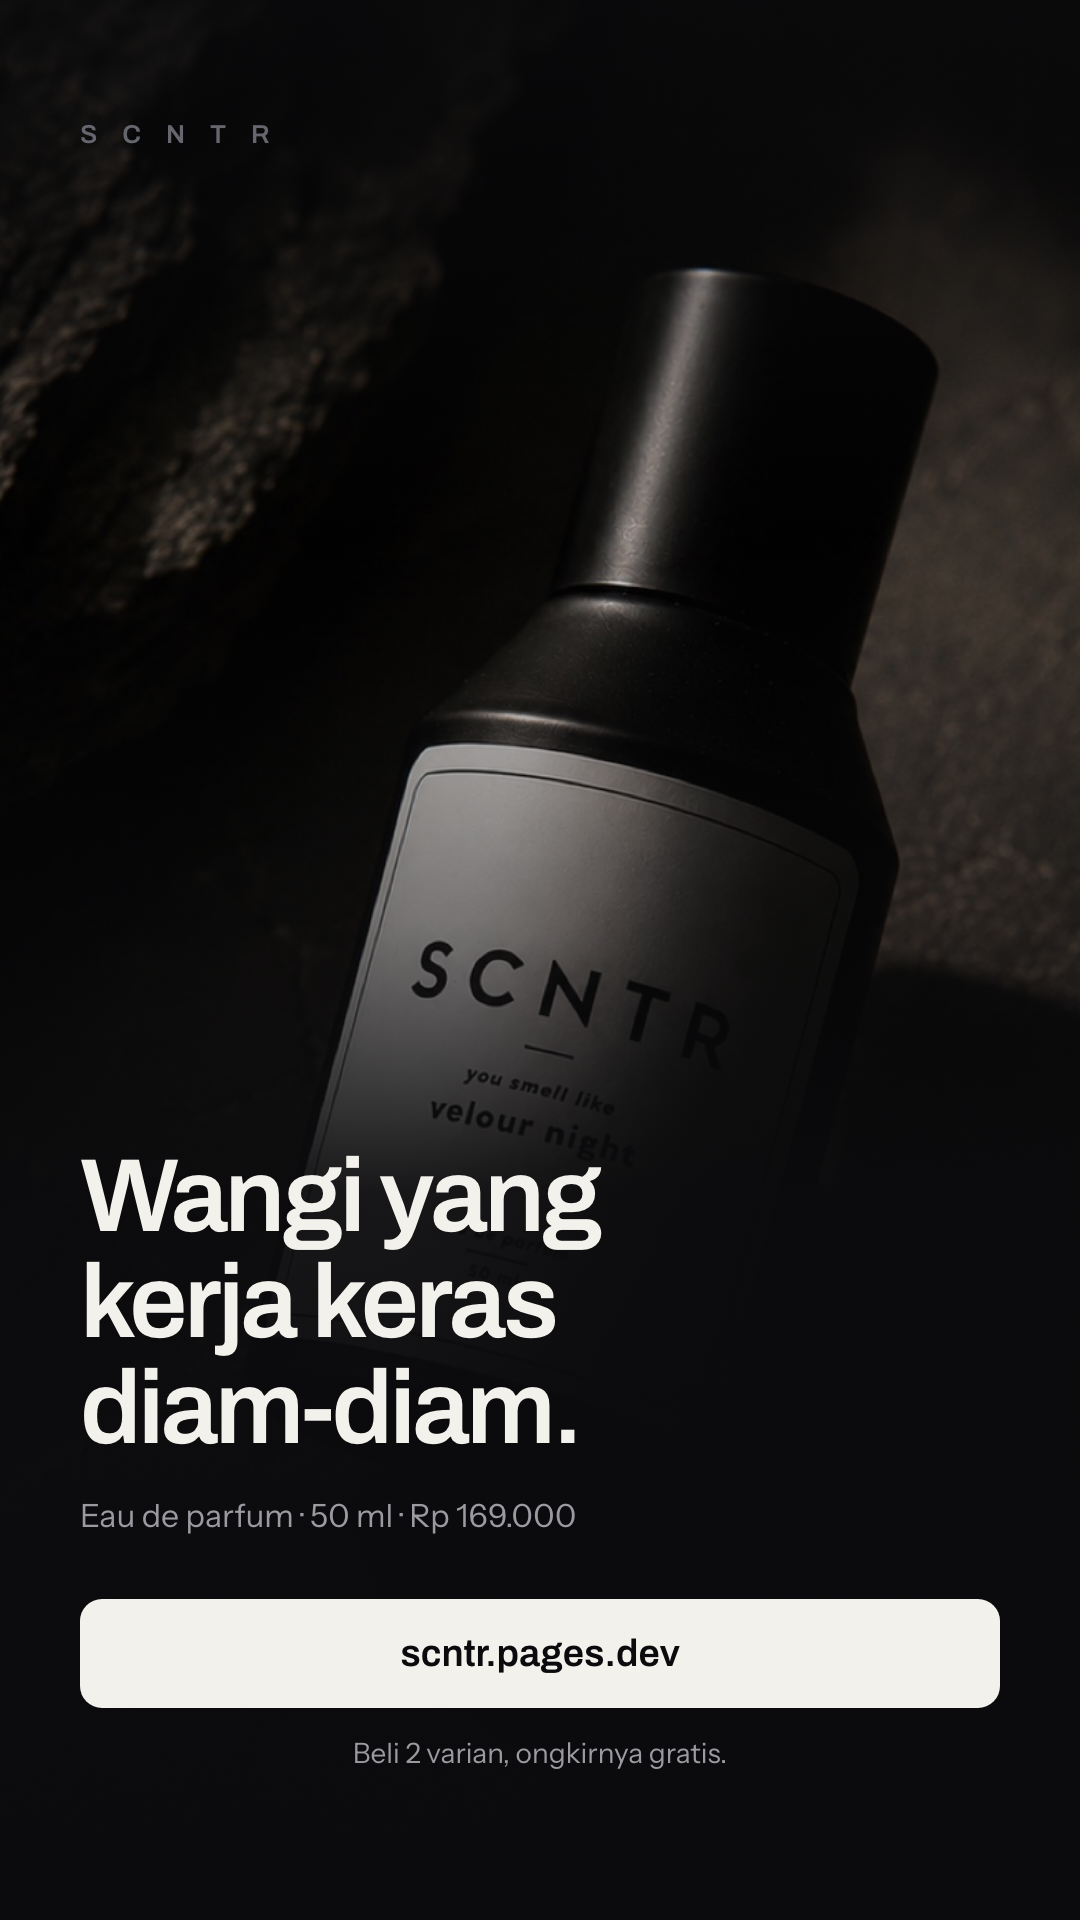
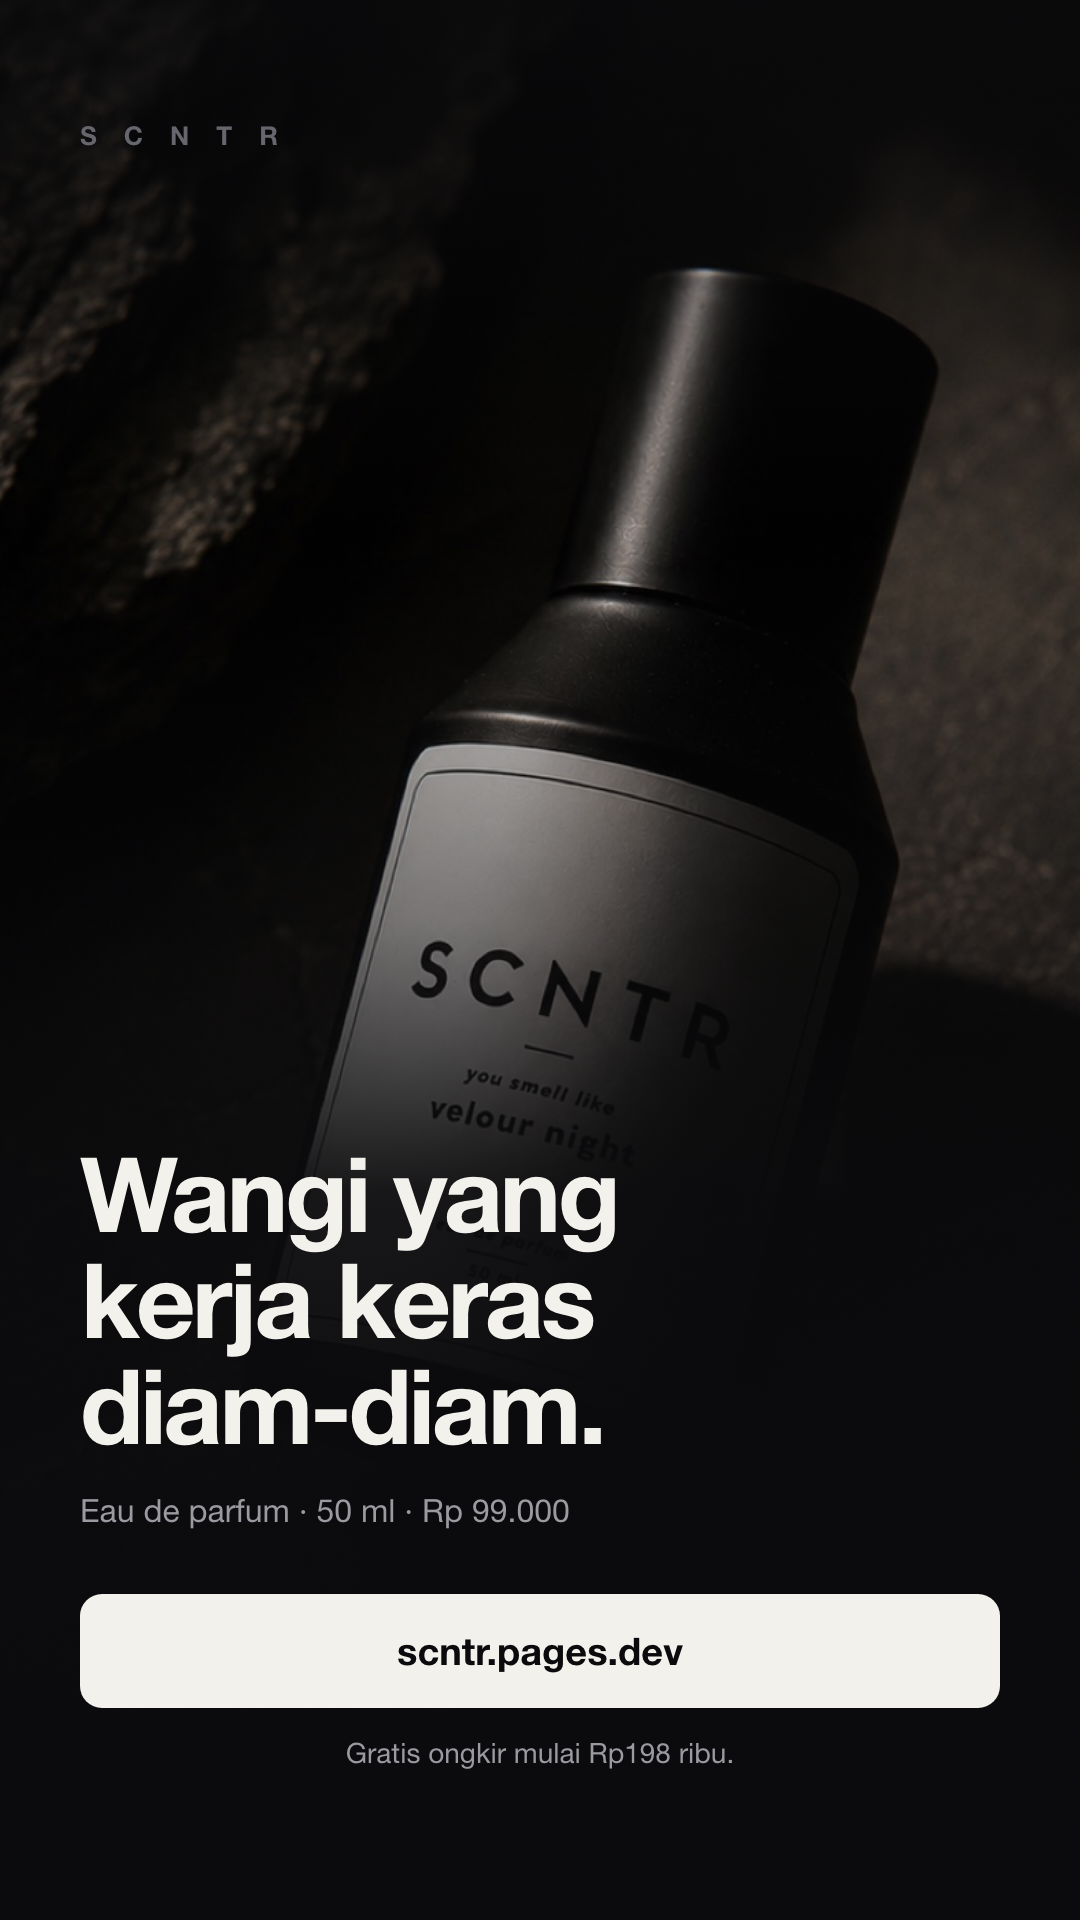
Rating jujur (3 ulasan Shopee) + gratis ongkir 198rb di web, app, dana, campaign

diff --git a/index.html b/index.html
@@ -4,7 +4,7 @@
 <meta charset="utf-8">
 <meta name="viewport" content="width=device-width, initial-scale=1">
 <title>SCNTR — Parfum Pria Lokal, Eau de Parfum 50 ml</title>
-<meta name="description" content="SCNTR — parfum pria lokal, eau de parfum 50 ml, Rp 99.000. Empat varian: Fresh, Clean, Bold, dan Velour Night. Tahan 8–12 jam, gratis ongkir mulai Rp 200.000, kirim 1–2 hari.">
+<meta name="description" content="SCNTR — parfum pria lokal, eau de parfum 50 ml, Rp 99.000. Empat varian: Fresh, Clean, Bold, dan Velour Night. Tahan 8–12 jam, gratis ongkir mulai Rp 198.000, kirim 1–2 hari.">
 <link rel="canonical" href="https://scntr.pages.dev/">
 <meta name="robots" content="index, follow, max-image-preview:large">
 <meta name="author" content="SCNTR">
@@ -15,7 +15,7 @@
 <meta property="og:locale" content="id_ID">
 <meta property="og:url" content="https://scntr.pages.dev/">
 <meta property="og:title" content="SCNTR — Parfum Pria 50 ml, Rp 99.000">
-<meta property="og:description" content="Wangi yang kerja keras diam-diam. Empat varian eau de parfum untuk pagi, kantor, malam, dan sehari-hari. Gratis ongkir mulai Rp 200.000.">
+<meta property="og:description" content="Wangi yang kerja keras diam-diam. Empat varian eau de parfum untuk pagi, kantor, malam, dan sehari-hari. Gratis ongkir mulai Rp 198.000.">
 <meta property="og:image" content="https://scntr.pages.dev/assets/velour-night.jpg">
 <meta property="og:image:width" content="1254">
 <meta property="og:image:height" content="1254">
@@ -515,7 +515,7 @@ footer nav a:hover{color:var(--bone)}
 </header>
 
 <div class="strip">
-  <div><svg viewBox="0 0 24 24" fill="none" stroke="currentColor" stroke-width="1.6" stroke-linejoin="round"><path d="M2.5 7h11v10h-11z"/><path d="M13.5 10.5h4l3 3.2V17h-7z"/><circle cx="6.5" cy="17.5" r="1.8"/><circle cx="17" cy="17.5" r="1.8"/></svg><span><b>Gratis Ongkir</b><span>Min. belanja Rp 200.000</span></span></div>
+  <div><svg viewBox="0 0 24 24" fill="none" stroke="currentColor" stroke-width="1.6" stroke-linejoin="round"><path d="M2.5 7h11v10h-11z"/><path d="M13.5 10.5h4l3 3.2V17h-7z"/><circle cx="6.5" cy="17.5" r="1.8"/><circle cx="17" cy="17.5" r="1.8"/></svg><span><b>Gratis Ongkir</b><span>Min. belanja Rp 198.000</span></span></div>
   <div><svg viewBox="0 0 24 24" fill="none" stroke="currentColor" stroke-width="1.6" stroke-linejoin="round"><path d="M12 3 19 5.6v5.2c0 4-2.9 7.5-7 9.2-4.1-1.7-7-5.2-7-9.2V5.6L12 3Z"/><path d="m9 12 2.1 2.1L15.2 10"/></svg><span><b>100% Original</b><span>Garansi produk asli</span></span></div>
   <div><svg viewBox="0 0 24 24" fill="none" stroke="currentColor" stroke-width="1.6" stroke-linecap="round" stroke-linejoin="round"><path d="M2.5 8.5h9v9h-9z"/><path d="M11.5 11.5h4.4l3.6 3.4v2.6h-8z"/><circle cx="6" cy="18" r="1.7"/><circle cx="16" cy="18" r="1.7"/><path d="M1 6h5M2 11h3"/></svg><span><b>Pengiriman Cepat</b><span>Sampai dalam 1–2 hari</span></span></div>
 </div>
@@ -542,7 +542,7 @@ footer nav a:hover{color:var(--bone)}
       <span class="price" id="spotPrice">Rp 99.000</span>
       <span class="rating">
         <svg viewBox="0 0 24 24" fill="currentColor"><path d="m12 3.6 2.6 5.3 5.8.8-4.2 4.1 1 5.8-5.2-2.7-5.2 2.7 1-5.8-4.2-4.1 5.8-.8L12 3.6Z"/></svg>
-        <b>4.8</b> (126 ulasan)
+        <b>★</b> (3 ulasan di Shopee)
       </span>
     </div>
     <div class="picker" id="picker"></div>
@@ -715,7 +715,7 @@ footer nav a:hover{color:var(--bone)}
     </details>
     <details>
       <summary>Ongkirnya berapa, dan berapa lama sampai?</summary>
-      <p>Ongkir Rp 15.000 ke seluruh Indonesia, dan gratis untuk pembelian mulai Rp 200.000 — misalnya tiga botol 50 ml, atau satu 100 ml ditambah satu 50 ml. Pengiriman 1–2 hari untuk kota besar, lebih lama untuk daerah yang jauh.</p>
+      <p>Ongkir Rp 15.000 ke seluruh Indonesia, dan gratis untuk pembelian mulai Rp 198.000 — misalnya dua botol 50 ml sudah gratis ongkir. Pengiriman 1–2 hari untuk kota besar, lebih lama untuk daerah yang jauh.</p>
     </details>
     <details>
       <summary>Cara pesannya gimana?</summary>
@@ -827,7 +827,7 @@ footer nav a:hover{color:var(--bone)}
         { "@type": "Question", "name": "Bedanya empat varian SCNTR itu apa?",
           "acceptedAnswer": { "@type": "Answer", "text": "Fresh citrus untuk pagi, Clean wangi sabun untuk kantor, Bold spicy woody untuk malam, dan Velour Night yang lembut untuk sehari-hari." } },
         { "@type": "Question", "name": "Ongkirnya berapa dan berapa lama sampai?",
-          "acceptedAnswer": { "@type": "Answer", "text": "Ongkir Rp 15.000 ke seluruh Indonesia dan gratis untuk pembelian mulai Rp 200.000. Pengiriman 1-2 hari untuk kota besar." } },
+          "acceptedAnswer": { "@type": "Answer", "text": "Ongkir Rp 15.000 ke seluruh Indonesia dan gratis untuk pembelian mulai Rp 198.000. Pengiriman 1-2 hari untuk kota besar." } },
         { "@type": "Question", "name": "Cara pesan parfum SCNTR?",
           "acceptedAnswer": { "@type": "Answer", "text": "Pilih varian, tekan Checkout, bayar lewat QRIS dari bank atau e-wallet mana pun, lalu isi nama dan alamat. Pesanan terkirim ke WhatsApp lengkap dengan rinciannya, tanpa perlu daftar akun." } },
         { "@type": "Question", "name": "SCNTR parfum asli atau isi ulang?",
@@ -911,7 +911,7 @@ footer nav a:hover{color:var(--bone)}
 <div class="toast" id="toast"><svg viewBox="0 0 24 24" fill="none" stroke="currentColor" stroke-width="2" stroke-linecap="round" stroke-linejoin="round"><path d="M4 12.5 9.5 18 20 7"/></svg><span id="toastMsg"></span></div>
 
 <script>
-const SHIP = 15000, FREE_MIN = 200000;
+const SHIP = 15000, FREE_MIN = 198000;
 const rupiah = n => "Rp " + n.toLocaleString("id-ID");
 const $ = s => document.querySelector(s);
 const el = (t,c,h) => { const n=document.createElement(t); if(c)n.className=c; if(h!=null)n.innerHTML=h; return n; };

diff --git a/app.html b/app.html
@@ -570,7 +570,7 @@ button:focus-visible,a:focus-visible{outline:2px solid var(--bone);outline-offse
       </div>
 
       <div class="trust">
-        <div><svg viewBox="0 0 24 24" fill="none" stroke="currentColor" stroke-width="1.6" stroke-linejoin="round"><path d="M2.5 7h11v10h-11z"/><path d="M13.5 10.5h4l3 3.2V17h-7z"/><circle cx="6.5" cy="17.5" r="1.8"/><circle cx="17" cy="17.5" r="1.8"/></svg><span><b>Gratis Ongkir</b><span>Min. belanja 200rb</span></span></div>
+        <div><svg viewBox="0 0 24 24" fill="none" stroke="currentColor" stroke-width="1.6" stroke-linejoin="round"><path d="M2.5 7h11v10h-11z"/><path d="M13.5 10.5h4l3 3.2V17h-7z"/><circle cx="6.5" cy="17.5" r="1.8"/><circle cx="17" cy="17.5" r="1.8"/></svg><span><b>Gratis Ongkir</b><span>Min. belanja 198rb</span></span></div>
         <div><svg viewBox="0 0 24 24" fill="none" stroke="currentColor" stroke-width="1.6" stroke-linejoin="round"><path d="M12 3 19 5.6v5.2c0 4-2.9 7.5-7 9.2-4.1-1.7-7-5.2-7-9.2V5.6L12 3Z"/><path d="m9 12 2.1 2.1L15.2 10"/></svg><span><b>100% Original</b><span>Garansi produk asli</span></span></div>
         <div><svg viewBox="0 0 24 24" fill="none" stroke="currentColor" stroke-width="1.6" stroke-linecap="round" stroke-linejoin="round"><path d="M2.5 8.5h9v9h-9z"/><path d="M11.5 11.5h4.4l3.6 3.4v2.6h-8z"/><circle cx="6" cy="18" r="1.7"/><circle cx="16" cy="18" r="1.7"/><path d="M1 6h5M2 11h3"/></svg><span><b>Pengiriman Cepat</b><span>1–2 hari sampai</span></span></div>
       </div>
@@ -608,7 +608,7 @@ button:focus-visible,a:focus-visible{outline:2px solid var(--bone);outline-offse
           <span class="price">Rp 99.000</span>
           <span class="rating">
             <svg viewBox="0 0 24 24" fill="currentColor"><path d="m12 3.6 2.6 5.3 5.8.8-4.2 4.1 1 5.8-5.2-2.7-5.2 2.7 1-5.8-4.2-4.1 5.8-.8L12 3.6Z"/></svg>
-            <b>4.8</b> (126)
+            <b>★</b> (3 di Shopee)
           </span>
         </div>
         <div class="chips" id="dChips"><span class="chip">Aromatic</span><span class="chip">Woody</span><span class="chip">Musk</span></div>
@@ -643,9 +643,9 @@ button:focus-visible,a:focus-visible{outline:2px solid var(--bone);outline-offse
       <div class="shipnote">
         <div class="top">
           <svg viewBox="0 0 24 24" fill="none" stroke="currentColor" stroke-width="1.6" stroke-linejoin="round"><path d="M2.5 7h11v10h-11z"/><path d="M13.5 10.5h4l3 3.2V17h-7z"/><circle cx="6.5" cy="17.5" r="1.8"/><circle cx="17" cy="17.5" r="1.8"/></svg>
-          <p id="shipMsg">Gratis ongkir untuk pembelian minimal Rp 200.000</p>
+          <p id="shipMsg">Gratis ongkir untuk pembelian minimal Rp 198.000</p>
         </div>
-        <div class="track"><span class="bar"><i id="shipBar" style="width:0%"></i></span><span class="lbl" id="shipLbl">Rp 0 / Rp 200.000</span></div>
+        <div class="track"><span class="bar"><i id="shipBar" style="width:0%"></i></span><span class="lbl" id="shipLbl">Rp 0 / Rp 198.000</span></div>
       </div>
       <div class="items" id="items"></div>
       <div id="summary"></div>
@@ -719,7 +719,7 @@ button:focus-visible,a:focus-visible{outline:2px solid var(--bone);outline-offse
 </div>
 
 <script>
-const SHIP = 15000, FREE_MIN = 200000;
+const SHIP = 15000, FREE_MIN = 198000;
 const rupiah = n => "Rp " + n.toLocaleString("id-ID");
 
 const VARIANTS = [
@@ -892,7 +892,7 @@ function renderCart(){
   $("#shipLbl").textContent = rupiah(subtotal) + " / " + rupiah(FREE_MIN);
   $("#shipMsg").textContent = freeShip
     ? "Ongkir kamu gratis. Nice."
-    : "Gratis ongkir untuk pembelian minimal Rp 200.000";
+    : "Gratis ongkir untuk pembelian minimal Rp 198.000";
 
   $("#summary").innerHTML = cart.length ? `
     <div class="totals">

diff --git a/campaign/index.html b/campaign/index.html
@@ -110,7 +110,7 @@ footer{border-top:1px solid var(--line);padding-top:26px;font-size:12.5px;color:
     <span class="tag">Instagram + TikTok + WhatsApp</span>
     <span class="tag">Tanpa budget iklan</span>
     <span class="tag">Target: 20 order pertama</span>
-    <span class="tag">Rp 169.000 / 50 ml</span>
+    <span class="tag">Rp 99.000 / 50 ml</span>
   </div>
 </header>
 
@@ -141,7 +141,7 @@ footer{border-top:1px solid var(--line);padding-top:26px;font-size:12.5px;color:
     <div class="card">
       <div class="who">Alasan beli sekarang</div>
       <h3>Harga pembuka + gratis ongkir</h3>
-      <p>Gratis ongkir otomatis di atas Rp 200.000, artinya beli dua varian sudah gratis ongkir. Ini yang didorong terus.</p>
+      <p>Gratis ongkir otomatis di atas Rp 198.000, artinya beli dua varian sudah gratis ongkir. Ini yang didorong terus.</p>
     </div>
   </div>
 </section>
@@ -210,7 +210,7 @@ footer{border-top:1px solid var(--line);padding-top:26px;font-size:12.5px;color:
 Aku bikin SCNTR karena capek lihat parfum cowok yang teriak-teriak.
 Ini kebalikannya: kecium pas orang mendekat, bukan pas kamu masuk ruangan.
 
-4 varian, 50 ml, Rp 169.000.
+4 varian, 50 ml, Rp 99.000.
 Fresh buat pagi. Clean buat kantor. Bold buat malam. Velour Night buat yang nggak mau ditebak.
 
 Beli 2 gratis ongkir, otomatis.
@@ -233,7 +233,7 @@ Link di bio → scntr.pages.dev
 Bold buat malam, Velour Night buat yang nggak mau ditebak."
 
 [15–20 dtk, kembali ke kamera]
-"169 ribu, 50 ml. Link ada di bio."
+"99 ribu, 50 ml. Link ada di bio."
 
 Teks di layar: WANGI YANG KERJA DIAM-DIAM
 Suara: musik tenang, jangan yang lagi ramai — nggak cocok sama produknya.</pre>
@@ -244,7 +244,7 @@ Suara: musik tenang, jangan yang lagi ramai — nggak cocok sama produknya.</pre
     <pre>Hai [nama], aku baru buka toko parfum sendiri namanya SCNTR.
 
 Besok resmi buka, tapi aku kabarin kamu duluan.
-Parfum cowok, 50 ml, Rp 169.000, ada 4 varian.
+Parfum cowok, 50 ml, Rp 99.000, ada 4 varian.
 
 Kalau kamu penasaran, ini tokonya: scntr.pages.dev
 
@@ -269,7 +269,7 @@ Ketik nomornya aja, nanti aku jelasin yang itu.</pre>
     <pre>Wajar sih nanyanya. 50 ml itu kira-kira 500 semprot,
 dipakai 2x sehari berarti jalan 8 bulanan.
 
-Jadi Rp 169.000 itu sekitar Rp 700 per hari.
+Jadi Rp 99.000 itu sekitar Rp 400 per hari.
 Lebih murah dari parkir. 😄
 
 Kalau mau coba dulu, ambil satu aja nggak apa-apa.</pre>
@@ -278,8 +278,8 @@ Kalau mau coba dulu, ambil satu aja nggak apa-apa.</pre>
   <div class="copy">
     <div class="label"><b>Bio Instagram</b><span>Ganti sekarang, sebelum kampanye jalan</span></div>
     <pre>SCNTR — parfum cowok yang ga drama
-Eau de parfum 50 ml · Rp 169.000
-Gratis ongkir min. 200rb
+Eau de parfum 50 ml · Rp 99.000
+Gratis ongkir min. 198rb
 Pesan di sini ↓
 scntr.pages.dev</pre>
   </div>

diff --git a/campaign/sumber/scntr-story-1.html b/campaign/sumber/scntr-story-1.html
@@ -15,7 +15,7 @@ body{background:var(--ink);color:var(--bone);font-family:var(--body);-webkit-fon
  border-top:1px solid var(--line);padding-top:28px}
 .harga{font-family:var(--display);font-size:30px;font-weight:600}
 .url{font-family:var(--display);font-size:26px;font-weight:500;color:var(--mute)}
-.card{padding:0;background:#000 url('file:///Users/dani/Projects/scntr/assets/velour-night.jpg') center/cover no-repeat}
+.card{padding:0;background:#000 url('file:///Users/dani/Projects/SCNTR_Projects/assets/velour-night.jpg') center/cover no-repeat}
 .shade{position:absolute;inset:0;background:linear-gradient(to bottom,rgba(11,11,13,.80) 0%,rgba(11,11,13,.12) 28%,rgba(11,11,13,.50) 48%,rgba(11,11,13,.94) 62%,rgba(11,11,13,.99) 78%,rgba(11,11,13,1) 100%)}
 .atas{position:relative;padding:120px 80px 0}
 .bawah{position:relative;margin-top:auto;padding:0 80px 150px}
@@ -29,7 +29,7 @@ h1{font-family:var(--display);font-size:104px;font-weight:600;letter-spacing:-.0
   <div class="atas"><div class="logo">S C N T R</div></div>
   <div class="bawah">
     <h1>Wangi yang kerja keras diam-diam.</h1>
-    <p class="sub">Eau de parfum · 50 ml · Rp 169.000</p>
+    <p class="sub">Eau de parfum · 50 ml · Rp 99.000</p>
     <div class="cta">scntr.pages.dev</div>
-    <p class="ong">Beli 2 varian, ongkirnya gratis.</p>
+    <p class="ong">Gratis ongkir mulai Rp198 ribu.</p>
   </div></div></html>

diff --git a/campaign/sumber/scntr-situasi-2.html b/campaign/sumber/scntr-situasi-2.html
@@ -32,4 +32,4 @@ h1{font-family:var(--display);font-size:104px;font-weight:600;letter-spacing:-.0
       <p class="ket">Interview, meeting, ketemu klien. Wangi sabun mahal yang bilang “aku niat” tanpa perlu ngomong.</p>
     </div></div>
   </div>
-  <div class="foot"><div class="harga">Rp 169.000 · 50 ml</div><div class="url">scntr.pages.dev</div></div></div></html>
+  <div class="foot"><div class="harga">Rp 99.000 · 50 ml</div><div class="url">scntr.pages.dev</div></div></div></html>

diff --git a/campaign/sumber/scntr-situasi-1.html b/campaign/sumber/scntr-situasi-1.html
@@ -32,4 +32,4 @@ h1{font-family:var(--display);font-size:104px;font-weight:600;letter-spacing:-.0
       <p class="ket">Kuliah pagi, gym, motoran. Wangi yang bikin kamu kelihatan bangun tepat waktu — walaupun engga.</p>
     </div></div>
   </div>
-  <div class="foot"><div class="harga">Rp 169.000 · 50 ml</div><div class="url">scntr.pages.dev</div></div></div></html>
+  <div class="foot"><div class="harga">Rp 99.000 · 50 ml</div><div class="url">scntr.pages.dev</div></div></div></html>

diff --git a/campaign/sumber/scntr-edukasi-1.html b/campaign/sumber/scntr-edukasi-1.html
@@ -33,4 +33,4 @@ li span{grid-column:2;font-size:27px;line-height:1.45;color:var(--mute);margin-t
       <li><b>Salah titik.</b><span>Leher, belakang telinga, dada. Titik yang hangat dan bergerak, bukan baju.</span></li>
     </ol>
   </div>
-  <div class="foot"><div class="harga">Rp 169.000 · 50 ml</div><div class="url">scntr.pages.dev</div></div></div></html>
+  <div class="foot"><div class="harga">Rp 99.000 · 50 ml</div><div class="url">scntr.pages.dev</div></div></div></html>

diff --git a/campaign/sumber/scntr-situasi-3.html b/campaign/sumber/scntr-situasi-3.html
@@ -32,4 +32,4 @@ h1{font-family:var(--display);font-size:104px;font-weight:600;letter-spacing:-.0
       <p class="ket">Kondangan, ulang tahun, ketemu calon mertua. Sekali papasan, orang inget kamu.</p>
     </div></div>
   </div>
-  <div class="foot"><div class="harga">Rp 169.000 · 50 ml</div><div class="url">scntr.pages.dev</div></div></div></html>
+  <div class="foot"><div class="harga">Rp 99.000 · 50 ml</div><div class="url">scntr.pages.dev</div></div></div></html>

diff --git a/campaign/sumber/scntr-situasi-4.html b/campaign/sumber/scntr-situasi-4.html
@@ -32,4 +32,4 @@ h1{font-family:var(--display);font-size:104px;font-weight:600;letter-spacing:-.0
       <p class="ket">Ngantor, nongkrong, lembur. Wangi harian yang tenang dan engga pasaran.</p>
     </div></div>
   </div>
-  <div class="foot"><div class="harga">Rp 169.000 · 50 ml</div><div class="url">scntr.pages.dev</div></div></div></html>
+  <div class="foot"><div class="harga">Rp 99.000 · 50 ml</div><div class="url">scntr.pages.dev</div></div></div></html>

diff --git a/orders.html b/orders.html
@@ -274,7 +274,7 @@ footer{font-size:12.5px;color:var(--dim);border-top:1px solid var(--line);paddin
 </div>
 
 <script>
-const PRICE = 99000, SHIP = 15000, FREE_MIN = 200000;
+const PRICE = 99000, SHIP = 15000, FREE_MIN = 198000;
 const KEY = "scntr-orders";
 const rupiah = n => "Rp " + n.toLocaleString("id-ID");
 const $ = s => document.querySelector(s);

diff --git a/lib/dana.js b/lib/dana.js
@@ -21,7 +21,7 @@ export const PRICES = {
   fresh100: 199000, clean100: 199000, bold100: 199000, velour100: 199000,
 };
 export const SHIP = 15000;
-export const FREE_MIN = 200000;
+export const FREE_MIN = 198000;
 
 const BASE = { sandbox: 'https://api.sandbox.dana.id', production: 'https://api.saas.dana.id' };
 

diff --git a/campaign/caption-iklan.md b/campaign/caption-iklan.md
@@ -18,7 +18,7 @@ Urutan unggah: `scntr-situasi-1` → `-2` → `-3` → `-4`.
 > BOLD — buat malam yang butuh kesan pertama.
 > VELOUR NIGHT — buat hari yang engga ada acaranya.
 >
-> Rp 169.000 per botol, 50 ml. Beli 2 varian, ongkirnya gratis.
+> Rp 99.000 per botol 50 ml (100 ml Rp 199.000). Beli 2 varian, ongkirnya gratis.
 > Link ada di bio.
 >
 > #parfumpria #parfumlokal #scntr #parfummurah #eaudeparfum
